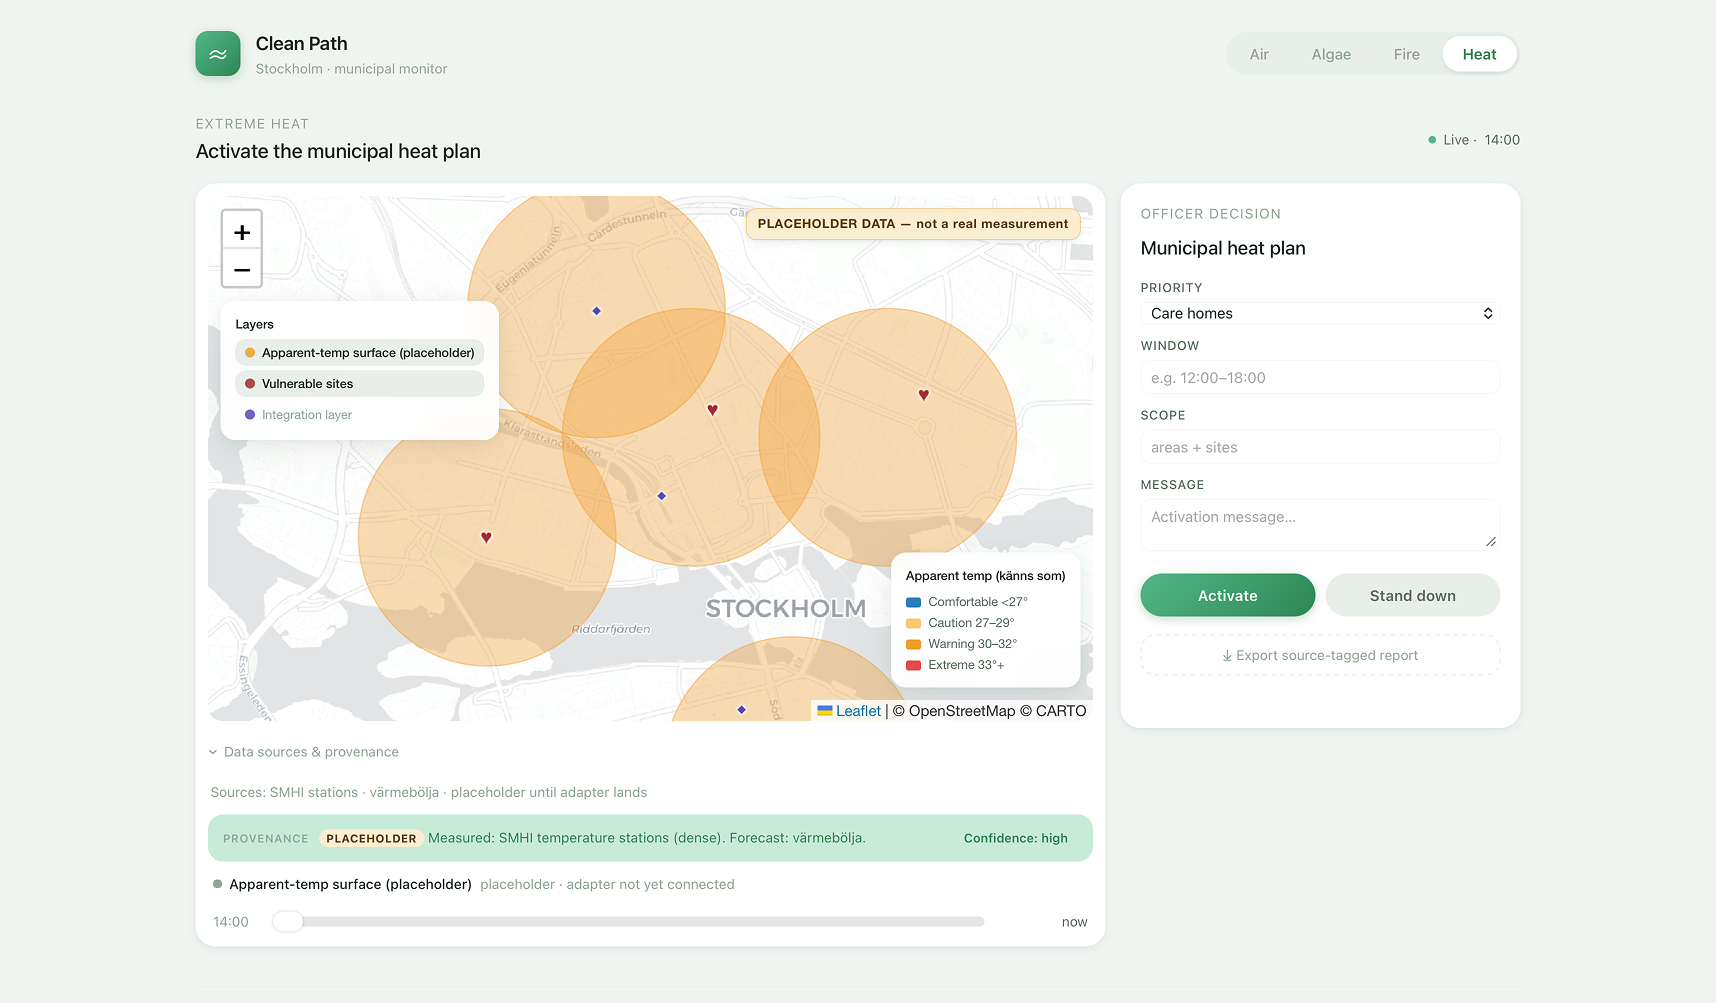
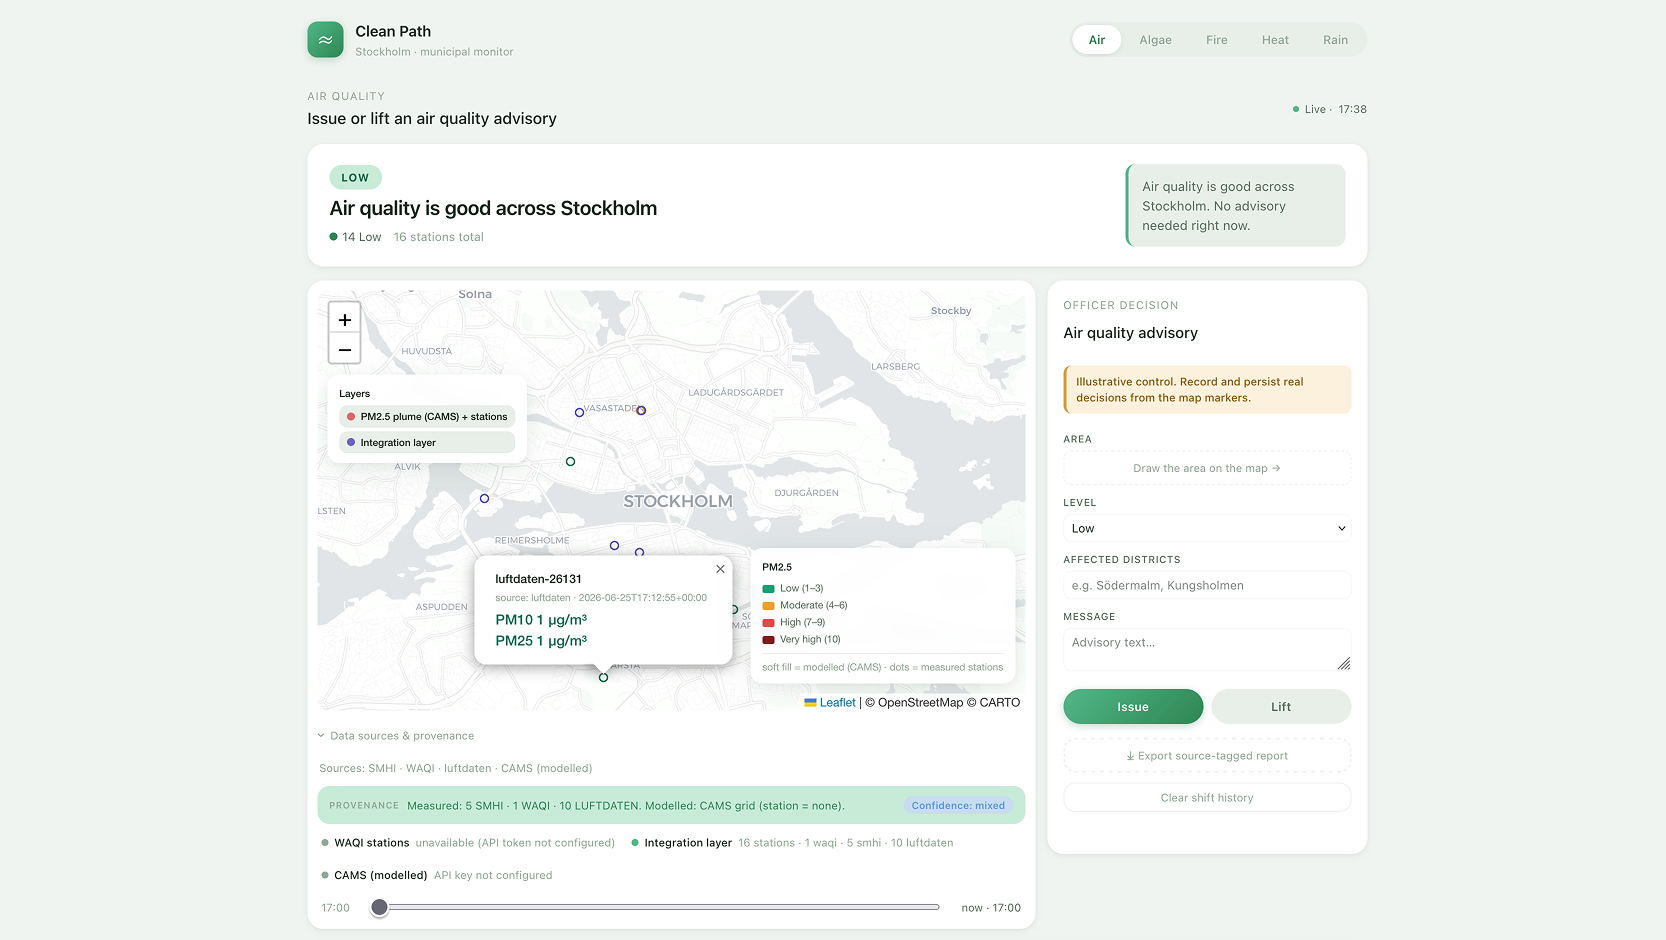
Update demo screenshot and shorten caption to one line

diff --git a/public/presentation/sections/03-demo.html b/public/presentation/sections/03-demo.html
@@ -68,7 +68,7 @@
   <div class="notes-src">Pablo owns this. This slide is just a handoff. Pablo does the live demo from the actual app, switch to the browser tab now.</div>
 </section>
 
-<!-- LIVE SHOT · HEAT DECISION SURFACE -->
+<!-- LIVE SHOT · RUNNING PROTOTYPE -->
 <section class="slide demo-shot">
   <div class="label">Demo</div>
   <div class="shot-head">
@@ -78,8 +78,8 @@
   <figure class="shot-frame">
     <img src="Images/Clean_path_homescreen.png" alt="Clean Path municipal monitor: a hazard map with markers and an officer decision panel, every reading source-tagged." />
   </figure>
-  <p class="shot-caption">A live map, the relevant readings, and a one-click officer decision panel, with <span class="kicker">every reading source-tagged</span>. Placeholder data is labelled, never shown as a measurement.</p>
-  <div class="notes-src">This is the screen Pablo demos live. Point out the shared shell (same header and tabs on every hazard), the source-tagged readings, and the officer decision panel on the right. The orange tag flags placeholder data, so nothing modelled is ever passed off as a real measurement.</div>
+  <p class="shot-caption">A live map, the readings, and a one-click officer decision panel, <span class="kicker">every reading source-tagged</span>.</p>
+  <div class="notes-src">This is the screen Pablo demos live. Point out the shared shell (same header and tabs on every hazard), the source-tagged readings, and the officer decision panel on the right. Where a hazard uses placeholder data it is always labelled, so nothing modelled is passed off as a real measurement.</div>
 </section>
 
 <!-- SCENARIOS -->